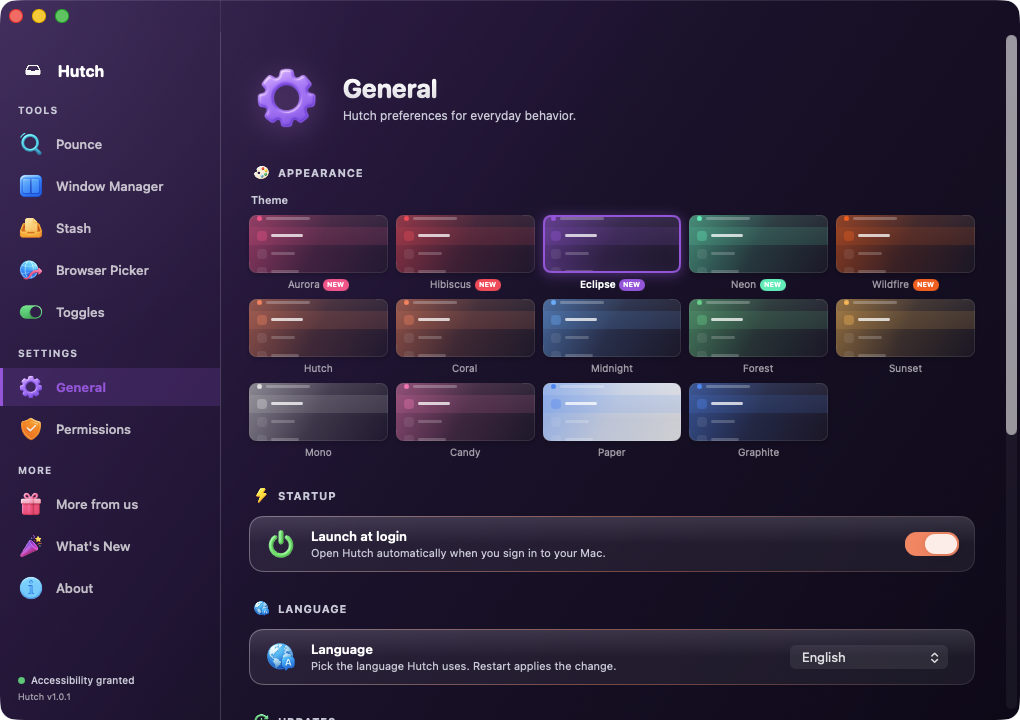
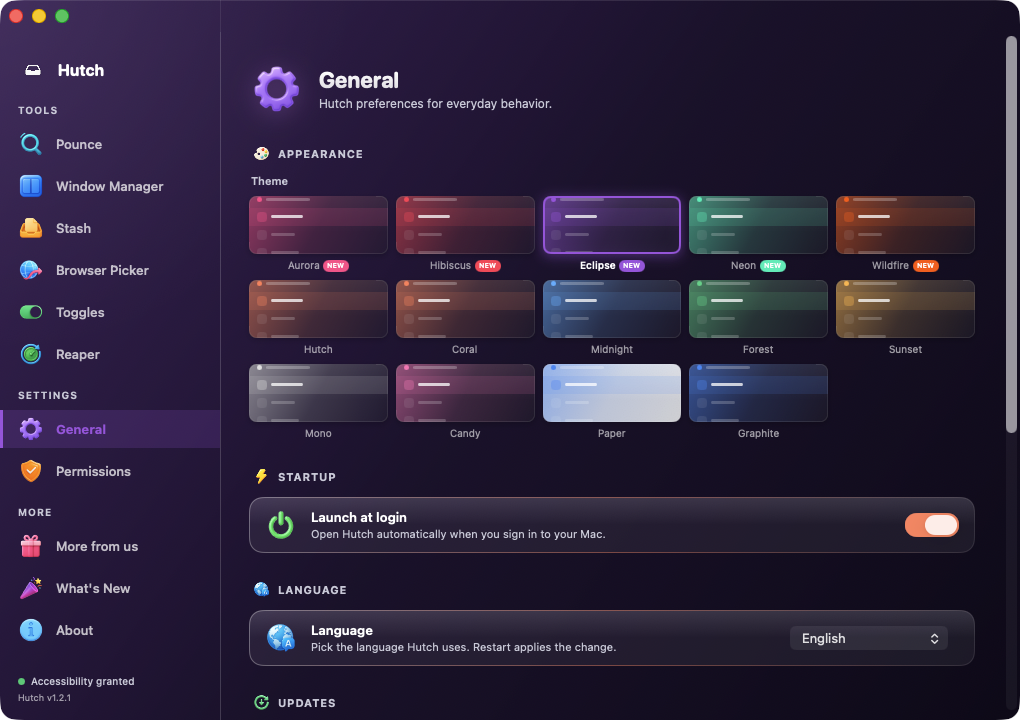
site: sharpen hero — flatten 3D tilt, refresh dashboard to 1.2.1 (Reaper)

diff --git a/styles.css b/styles.css
@@ -615,10 +615,10 @@ footer a:hover { color: var(--text-primary); }
     0 10px 28px rgba(0, 0, 0, 0.45),
     0 0 0 1px rgba(255, 255, 255, 0.06),
     0 0 170px rgba(155, 89, 182, 0.24);
-  transform: perspective(2400px) rotateX(1.2deg);
+  transform: translateY(0);
   transition: transform 0.5s cubic-bezier(0.2, 0.8, 0.2, 1);
 }
-.shot-hero:hover { transform: perspective(2400px) rotateX(0deg) translateY(-3px); }
+.shot-hero:hover { transform: translateY(-3px); }
 
 /* Composite hero: dashboard window with the Pounce launcher floating over it */
 .hero-composite {
